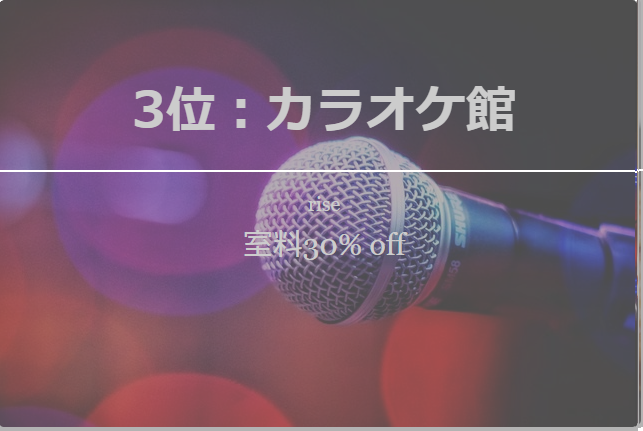
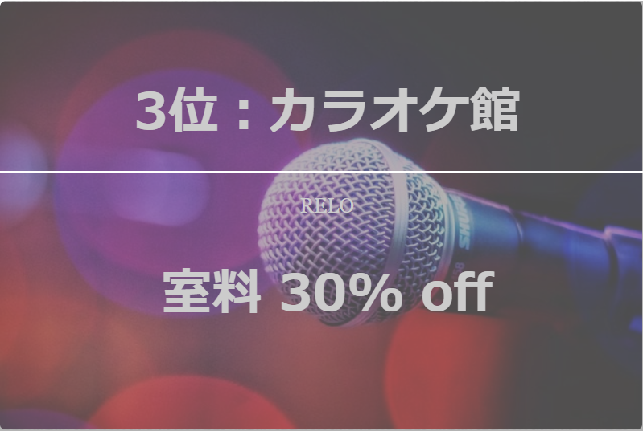
lasucomi

Changed region(s): [[0.0, 0.0, 1.0, 1.0], [0.7776, 0.5128, 0.8087, 0.5731]]

diff --git a/resources/views/movieprime.blade.php b/resources/views/movieprime.blade.php
@@ -42,8 +42,8 @@
                 <div class="infoLayer">
                     <ul>
                         <li><h3>1位：109 Cinemas</h3></li>
-                        <li><p>Relo</p></li>
-                        <li><h3>1,300円</h3></li>
+                        <li><p>RELO</p></li>
+                        <li><h3>500円 off</h3></li>
                     </ul>
                 </div>
                
@@ -57,8 +57,8 @@
                 <div class="infoLayer">
                     <ul>
                         <li><h3>2位：TOHO シネマズ</h3></li>
-                        <li><p>Relo</p></li>
-                        <li><p1>1,300円</p1></li>
+                        <li><p>RELO</p></li>
+                        <li><h3>500円 off</h3></li>
                     </ul>
                 </div>
                 <!--<img data-original="images/gallery/potato.jpg" src="img/effects/white.gif" alt="Photo 2" />-->
@@ -81,8 +81,8 @@
                 <div class="infoLayer">
                     <ul>
                         <li><h3>3位：カラオケ館</h3></li>
-                        <li><p>rise</p></li>
-                        <li><p1>室料30% OFF</p1></li>
+                        <li><p>RELO</p></li>
+                        <li><h3>室料 30% off</h3></li>
                     </ul>
                 </div>
                 <!--<img data-original="images//gallery/cinamon.jpg" src="img/effects/white.gif" alt="Photo 3" />-->
@@ -106,8 +106,8 @@
                 <div class="infoLayer">
                     <ul>
                         <li><h3>4位：BIG ECHO</h3></li>
-                        <li><p>rise</p></li>
-                        <li><p1>室料20% OFF</p1></li>
+                        <li><p>RELO</p></li>
+                        <li><h3>室料 20～30% off</h3></li>
                     </ul>
                 </div>
                 <!--<img data-original="images//gallery/hamburger.jpg" src="img/effects/white.gif" alt="Photo 3" />-->
@@ -131,8 +131,8 @@
                 <div class="infoLayer">
                     <ul>
                         <li><h3>5位：イオンシネマ</h3></li>
-                        <li><p>rise</p></li>
-                        <li><p1>1300円</p1></li>
+                        <li><p>RELO</p></li>
+                        <li><h3>500円 off</h3></li>
                     </ul>
                 </div>
                 <div class="projectInfo">KUAAINA</div>
@@ -147,8 +147,8 @@
                 <div class="infoLayer">
                     <ul>
                         <li><h3>6位：SHIDAX</h3></li>
-                        <li><p>Riro</p></li>
-                        <li><p1>室料20% OFF</p1></li>
+                        <li><p>RELO</p></li>
+                        <li><h3>室料 20% off</h3></li>
                     </ul>
                 </div>
                 <div class="projectInfo">KUAAINA</div>
@@ -162,8 +162,8 @@
                 <div class="infoLayer">
                     <ul>
                         <li><h3>7位：カラオケの鉄人</h3></li>
-                        <li><p>rise</p></li>
-                        <li><p1>30% off</p1></li>
+                        <li><p>RELO</p></li>
+                        <li><h3>室料 30% off</h3></li>
                     </ul>
                 </div>
                 <div class="projectInfo">KUAAINA</div>

diff --git a/resources/views/movie.php b/resources/views/movie.php
@@ -5,7 +5,7 @@
     <meta content="width=device-width, initial-scale=1" name="viewport" />
     <title>Movie & Karaoke</title>
     <!-- Bootstrap CSS-->
-    <link rel="stylesheet" href="https://maxcdn.bootstrapcdn.com/bootstrap/3.3.7/css/bootstrap.min.css">
+    <!--<link rel="stylesheet" href="https://maxcdn.bootstrapcdn.com/bootstrap/3.3.7/css/bootstrap.min.css">-->
 
     <!-- add styles -->
     <link href="css/least.min.2.css" rel="stylesheet" type="text/css" />
@@ -133,7 +133,7 @@
                     <ul>
                         <li><h3>まねきねこ</h3></li>
                         <li><p>RELO</p></li>
-                        <li><h3>室料 30% off <br>or<br> ポテトフライサービス</h3></li>
+                        <li><h3>室料 30% off</h3></li>
                     </ul>
                 </div>
                 <div class="projectInfo">KUAAINA</div>
@@ -161,7 +161,7 @@
                 <div class="overLayer"></div>
                 <div class="infoLayer">
                     <ul>
-                        <li><h3>109 cinemas</h3></li>
+                        <li><h3>109 Cinemas</h3></li>
                         <li><p>RELO</p></li>
                         <li><h3>500円 off</h3></li>
                     </ul>

diff --git a/resources/views/cafe.blade.php b/resources/views/cafe.blade.php
@@ -124,7 +124,7 @@
             
             <li>
                 <a href="https://www.google.co.jp/search?num=30&rlz=1C1GGRV_enJP791JP791&ei=WDVRW7SCGY7N-QacnJLoCQ&q=%E6%B8%A9%E9%87%8E%E8%8F%9C&oq=%E6%B8%A9%E9%87%8E%E8%8F%9C&gs_l=psy-ab.3..0i67k1j0i4i37k1j0i67k1j0j0i4i37k1l3j0i67k1l2j0i4i37k1.13604.14499.0.14733.9.9.0.0.0.0.153.934.2j6.8.0....0...1c.1j4.64.psy-ab..3.6.709...35i39k1j0i4k1j0i131k1j0i4i10k1j0i4i10i42k1j0i10k1.0.cFfKsVOUcq8"></a>
-                <img data-original="images//gallery/pot.jpg" src="img/effects/white.gif" alt="Photo 3" />
+                <img data-original="images/gallery/rank/shabu.jpg" src="img/effects/white.gif" alt="Photo 3" />
 
                 <div class="overLayer"></div>
                 <div class="infoLayer">
@@ -144,7 +144,7 @@
                 <div class="overLayer"></div>
                 <div class="infoLayer">
                     <ul>
-                        <li><h3>8位: Bubby's</h3></li>
+                        <li><h3>Bubby's</h3></li>
                         <li><p>RELO</p></li>
                         <li><h3>100円 off <br>(予約時エントリー必須)</h3></li>
                     </ul>

diff --git a/resources/views/welcome.blade.php b/resources/views/welcome.blade.php
@@ -334,7 +334,7 @@ $prime = \Auth::user()->prime;
 </div>
   <br><br>
   <div class = "prime_explanation">
-  <h3>楽天プライムは、<p class="ddd" >新卒専用の「社内ポータルサイト」</p>です。<br>
+  <h3>楽天プライムは、<a class="ddd" >新卒専用の「社内ポータルサイト」</a>です。<br>
   社員をサポートする社内制度や、仕事に役立つチップスなど、楽天にまつわる情報を 楽しく 簡単に 調べることができます。
   <br><br>あなたの<a class="ddd" >ワークライフにワクワクをプラスするコンテンツ</a>が盛りだくさん！
 　<br>さぁ、楽天を使い倒せ！
